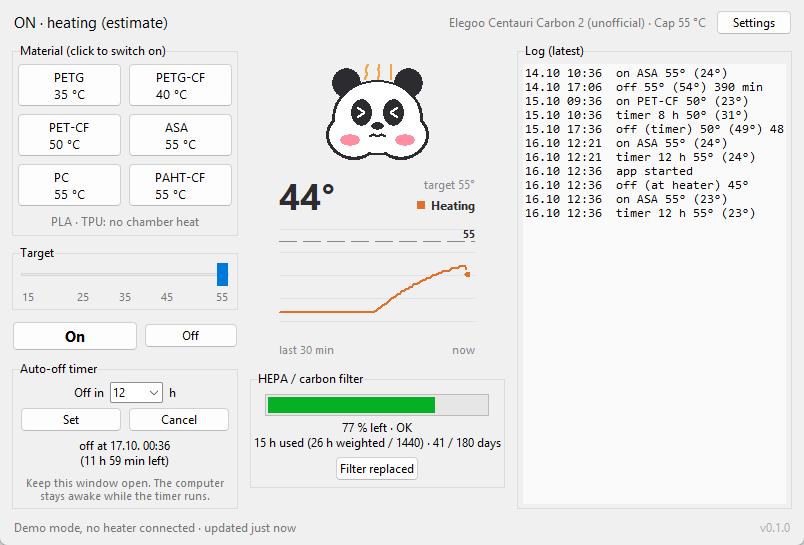
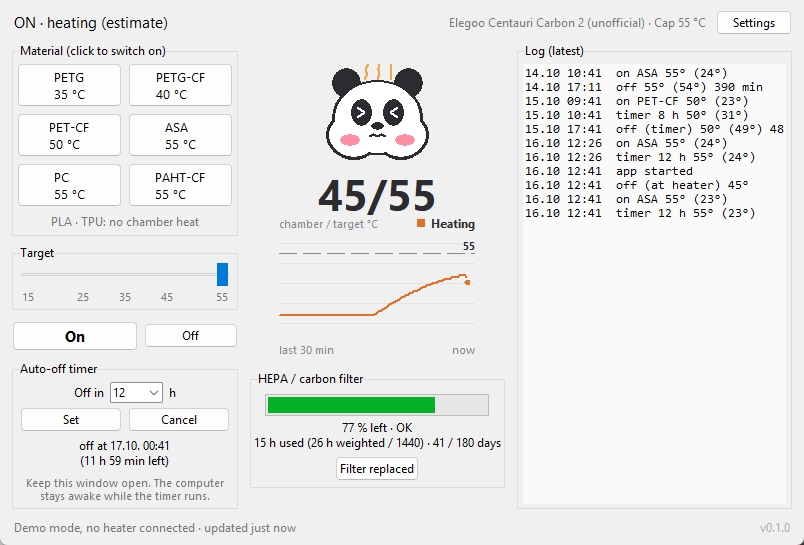
Panel: chamber and target as one big 45/55 number
The target was a small grey label; it is now part of the big number, with a
small "chamber / target °C" caption and the status underneath.

diff --git a/panda_breath_control/ui.py b/panda_breath_control/ui.py
@@ -55,7 +55,7 @@ class StatusPanel(tk.Canvas):
     W, H = 240, 322
     WINDOW_S = 30 * 60
     COLUMNS = 98
-    L, R, T, B = 22, 218, 186, 290
+    L, R, T, B = 22, 218, 200, 290
 
     def __init__(self, master, history, cap):
         bg = ttk.Style(master).lookup("TFrame", "background") or "#f0f0f0"
@@ -193,17 +193,16 @@ class StatusPanel(tk.Canvas):
 
     def draw_numbers(self):
         fam = ui_family()
-        cur = "--" if self.current is None else f"{self.current}°"
-        self.create_text(self.L, 152, text=cur, anchor="w", font=(fam, 28, "bold"),
+        cur = "--" if self.current is None else str(self.current)
+        tgt = "--" if self.target is None else str(self.target)
+        self.create_text(120, 150, text=f"{cur}/{tgt}", font=(fam, 32, "bold"),
                          fill=STALE if self.stale else INK)
-        if self.target is not None:
-            self.create_text(self.R, 141, text=t("panel_target", t=self.target), anchor="e",
-                             font=(fam, 9), fill=MUTED)
-        item = self.create_text(self.R, 162, text=self.status_text(), anchor="e",
+        self.create_text(self.L, 180, text=t("panel_caption"), anchor="w", font=(fam, 8), fill=MUTED)
+        item = self.create_text(self.R, 180, text=self.status_text(), anchor="e",
                                 font=(fam, 9, "bold" if not self.stale else "normal"),
                                 fill=MUTED if self.stale else INK)
         x0 = self.bbox(item)[0]
-        self.create_rectangle(x0 - 13, 158, x0 - 5, 166, fill=self.state_color(), outline="")
+        self.create_rectangle(x0 - 13, 176, x0 - 5, 184, fill=self.state_color(), outline="")
 
     def draw_trend(self):
         fam = ui_family()

diff --git a/panda_breath_control/i18n.py b/panda_breath_control/i18n.py
@@ -52,7 +52,7 @@ STRINGS = {
         "fresh_none": "no reading yet",
         "fresh_now": "updated just now",
         "fresh_age": "last reading {s} s ago",
-        "panel_target": "target {t}°",
+        "panel_caption": "chamber / target °C",
         "panel_heating": "Heating",
         "panel_filtering": "Filtering",
         "panel_off": "Off",
@@ -149,7 +149,7 @@ STRINGS = {
         "fresh_none": "ei vielä lukemaa",
         "fresh_now": "päivitetty juuri nyt",
         "fresh_age": "viimeisin lukema {s} s sitten",
-        "panel_target": "tavoite {t}°",
+        "panel_caption": "kammio / tavoite °C",
         "panel_heating": "Lämmittää",
         "panel_filtering": "Suodattaa",
         "panel_off": "Pois",
@@ -246,7 +246,7 @@ STRINGS = {
         "fresh_none": "尚无读数",
         "fresh_now": "刚刚更新",
         "fresh_age": "上次读数 {s} 秒前",
-        "panel_target": "目标 {t}°",
+        "panel_caption": "腔体 / 目标 °C",
         "panel_heating": "加热中",
         "panel_filtering": "过滤中",
         "panel_off": "关闭",

diff --git a/README.md b/README.md
@@ -129,8 +129,8 @@ The panda in the middle of the window shows the state:
 | Eyes squeezed shut, red puffed cheeks | On and heating |
 | Grey, with a question mark | No reading for 4 seconds, or no connection |
 
-Below it are the chamber reading, the target and a line of the last 30
-minutes of readings against the dashed target. The dot at the end of the line
+Below it, in big numbers, is `chamber/target` in °C, for example `45/55`,
+then a line of the last 30 minutes of readings against the dashed target. The dot at the end of the line
 pulses with every reading. The history is kept only while the app is open.
 
 The chamber number comes from the

diff --git a/CHANGELOG.md b/CHANGELOG.md
@@ -4,7 +4,8 @@
 
 - New status panel in place of the drawing of the heater: a panda that sleeps
   when off, breathes while filtering and puffs red cheeks while heating, and a
-  trend line of the last 30 minutes of readings against the target.
+  trend line of the last 30 minutes of readings against the target. The
+  chamber and target show as one big number, `45/55`.
 - Sharper icon: the 16, 20, 24 and 32 px sizes are drawn on the pixel grid,
   and a thin white edge keeps the black ears visible on a dark taskbar.
 - Windows: the taskbar gets the 24 px icon frame directly; Tk only passed a
